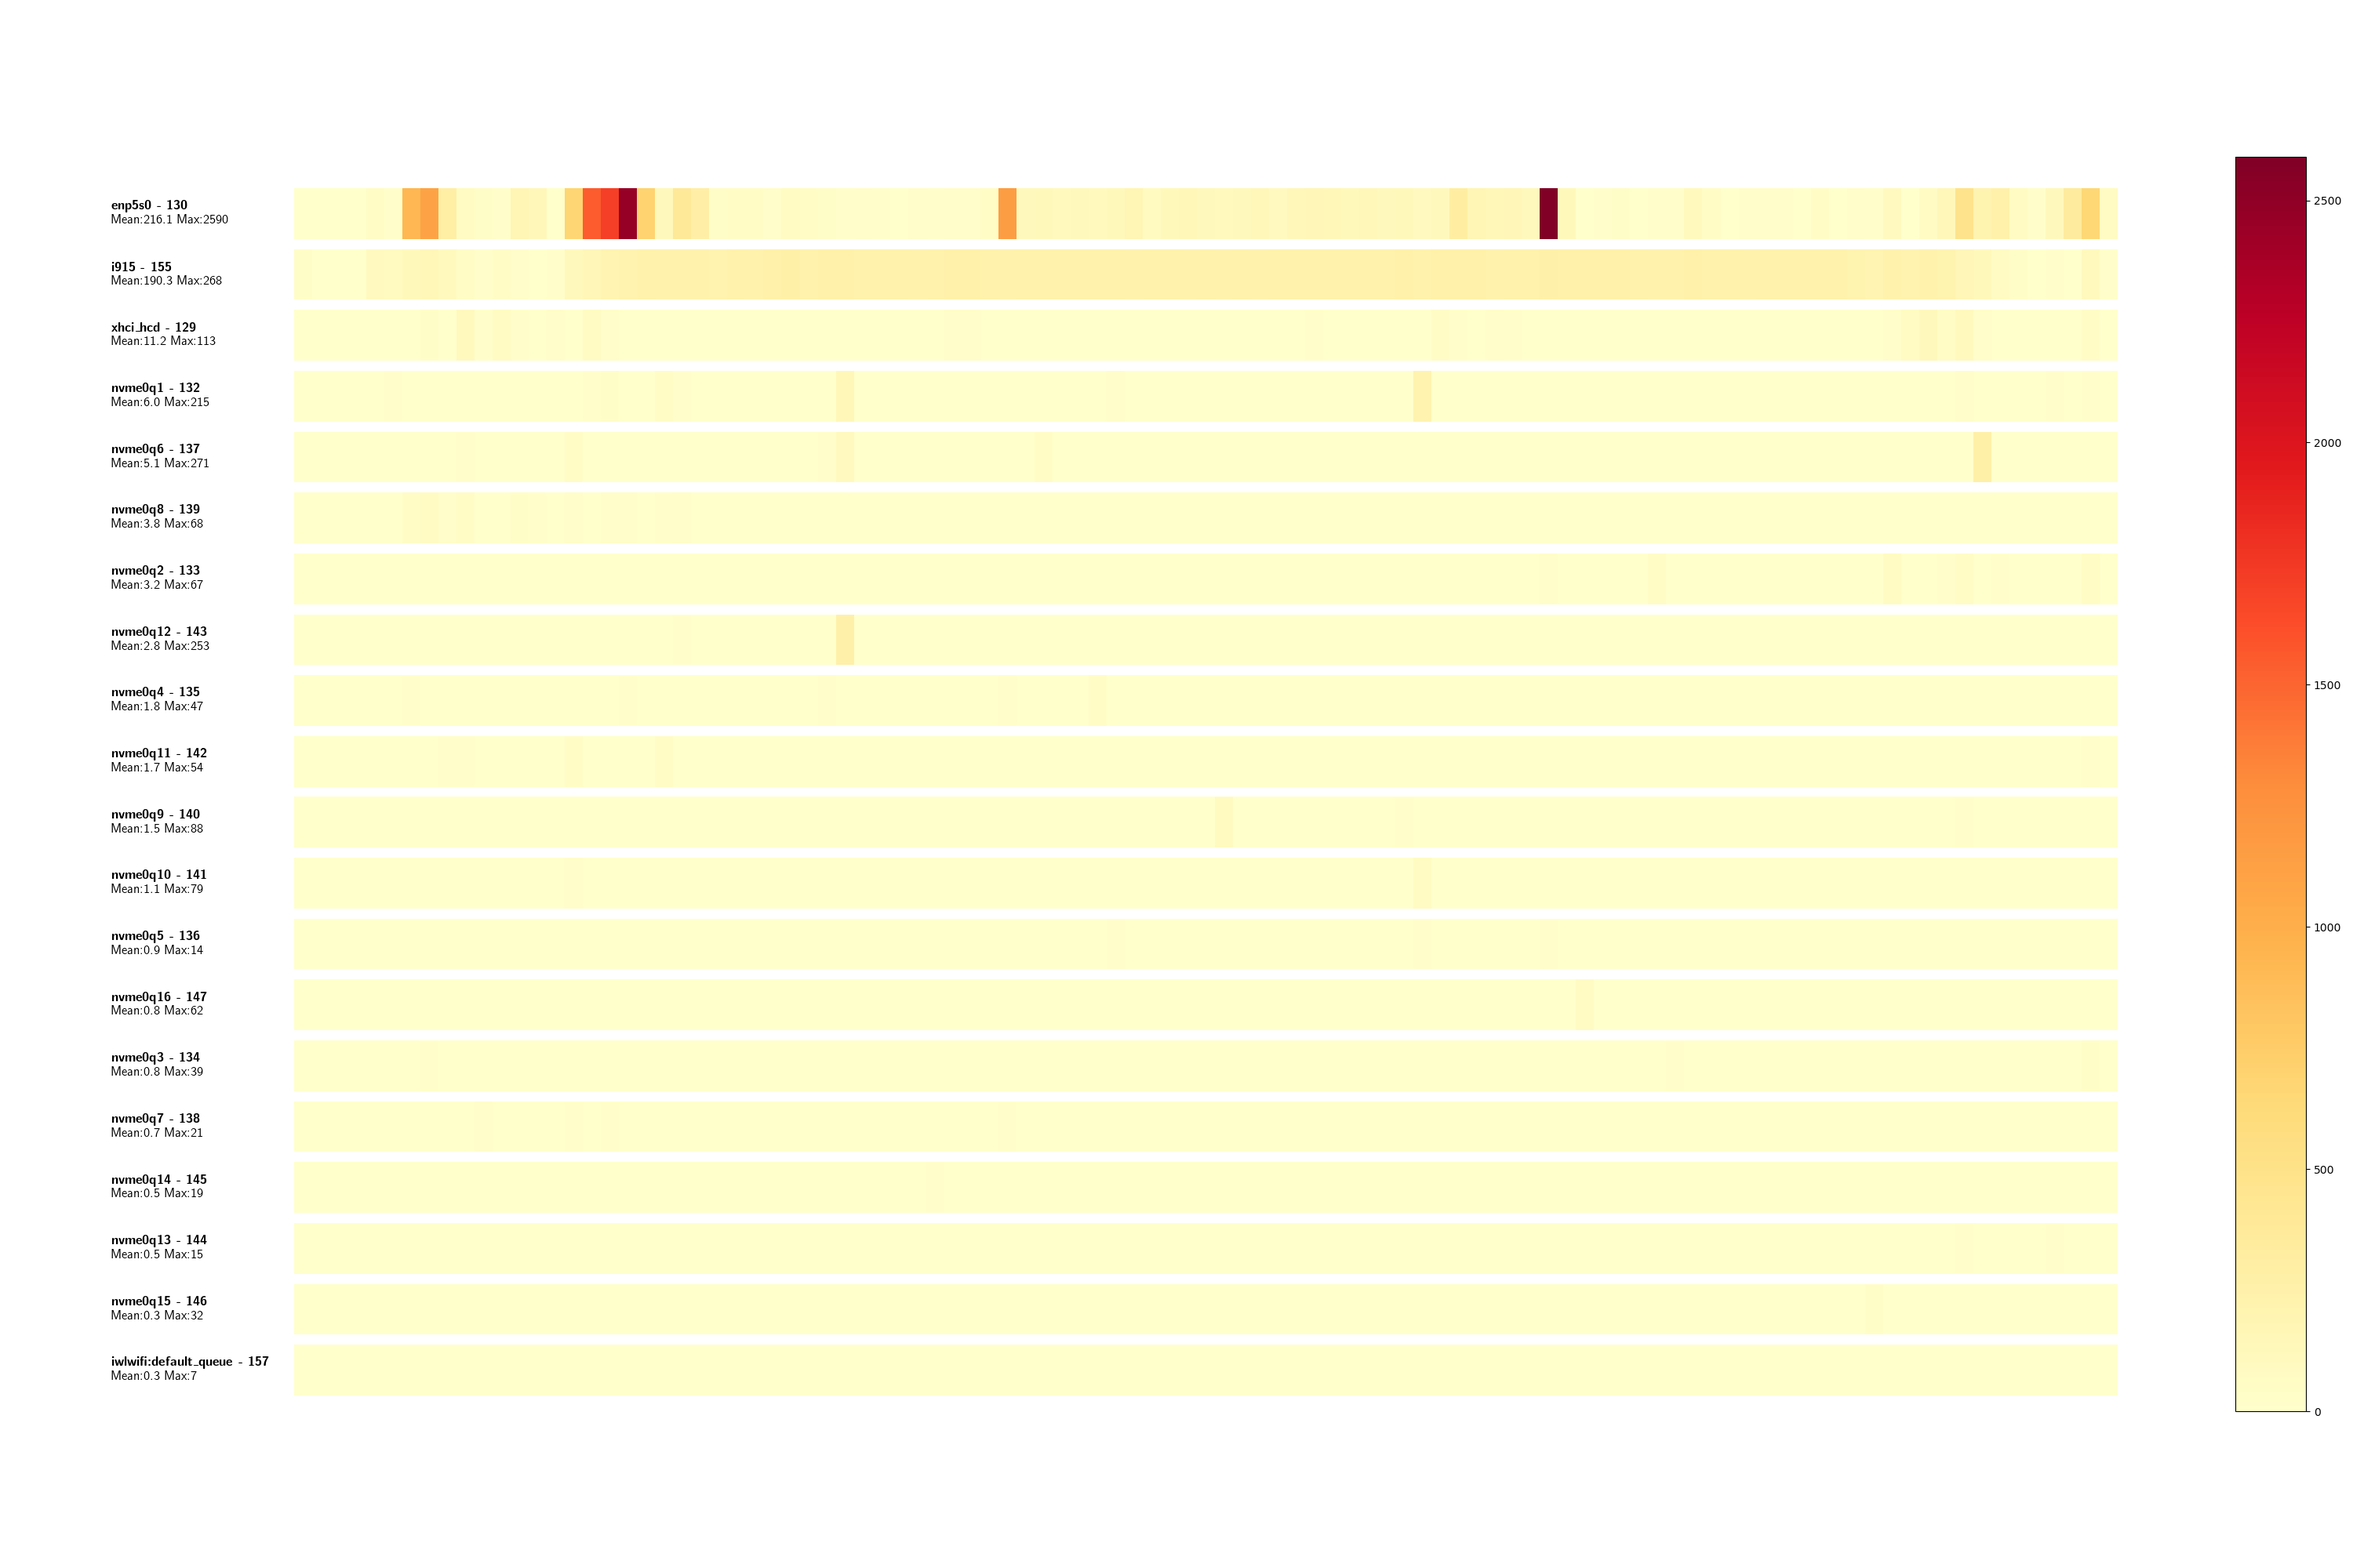
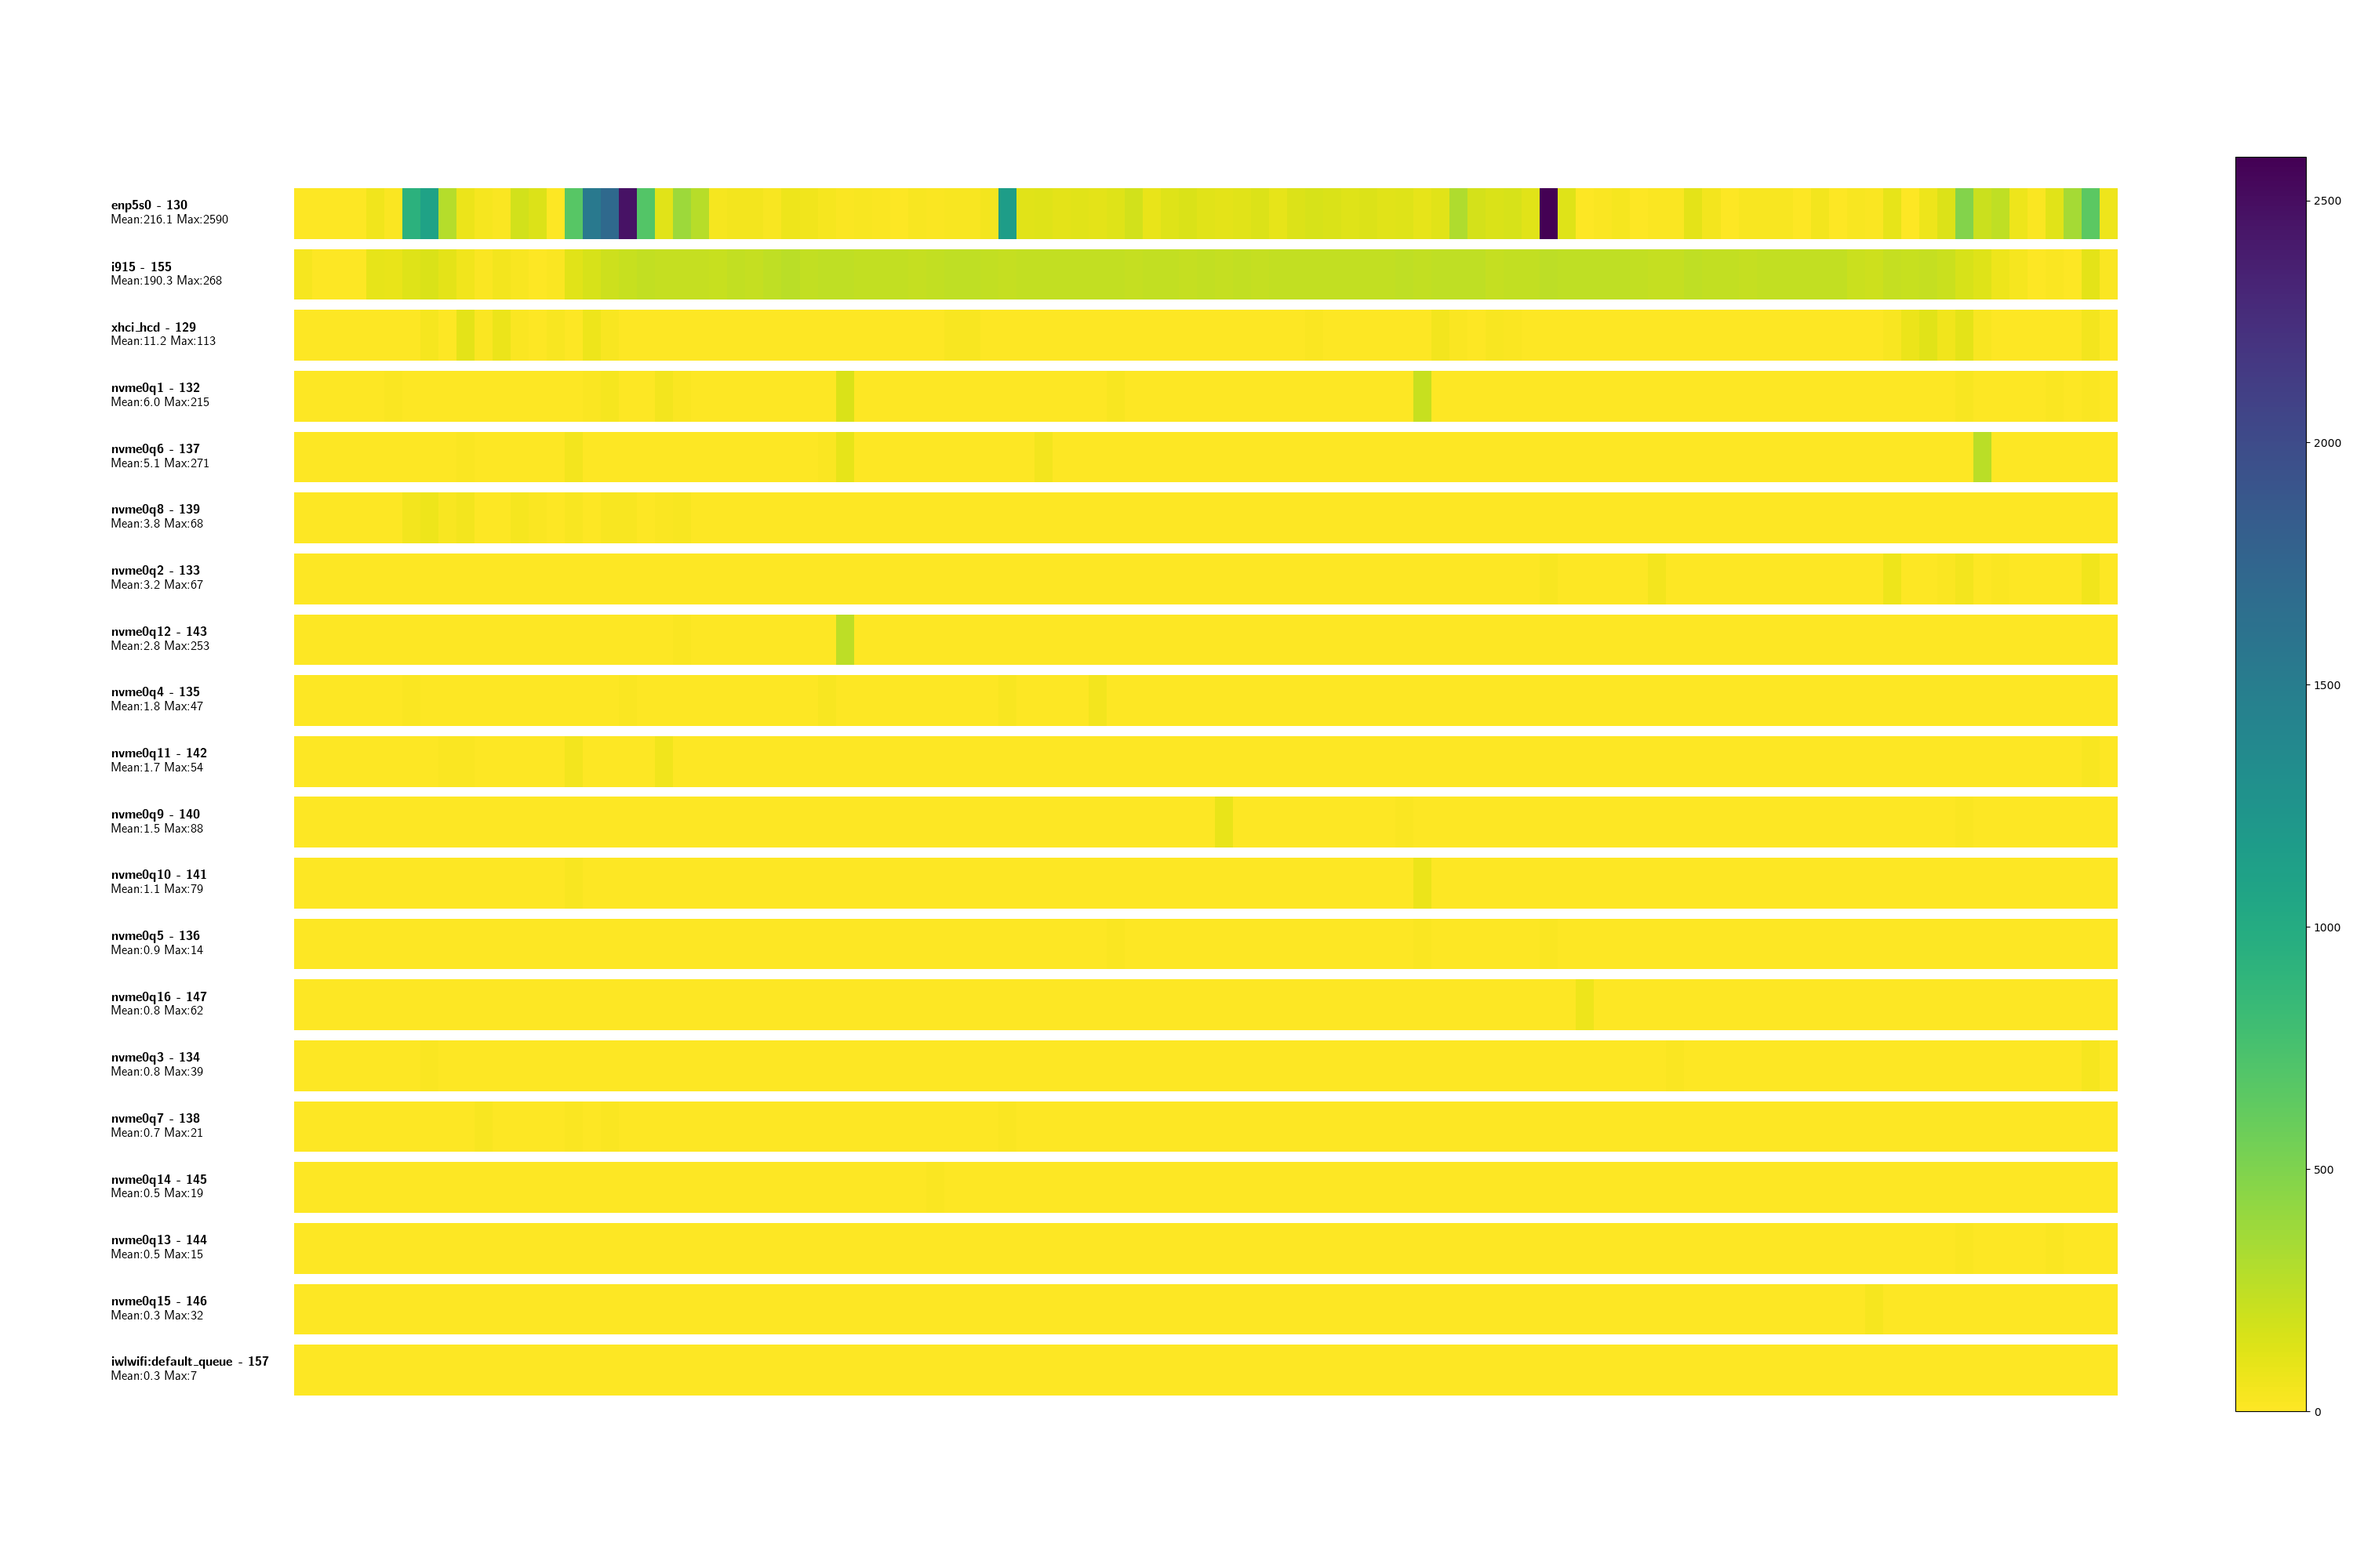
wakeups: IRQ differenz color palette

diff --git a/images/wakeups-timesequence-01/wakeups-timemap-irq.py b/images/wakeups-timesequence-01/wakeups-timemap-irq.py
@@ -21,7 +21,7 @@ for i, data in enumerate(data.iterrows()):
     row_mean = row.iloc[DATA_COLUMN:].mean()
     row_max = row.iloc[DATA_COLUMN:].max()
     reshaped_array = np.array(row.iloc[DATA_COLUMN:].tolist()).reshape((1, -1))
-    im = axs[i].imshow(reshaped_array, cmap=plt.cm.YlOrRd, extent=[0, 10, 0, 10],
+    im = axs[i].imshow(reshaped_array, cmap=plt.cm.viridis_r, extent=[0, 10, 0, 10],
                        aspect='auto', interpolation='none', vmin=0, vmax=max_value)
     # I use TeX here for boldface font generatiom, remove textbf and usetex=False
     # to get rid of it

diff --git a/images/wakeups-timesequence-01/wakeups-timemap-irq-cpu.py b/images/wakeups-timesequence-01/wakeups-timemap-irq-cpu.py
@@ -16,7 +16,7 @@ for i, data in enumerate(data.iterrows()):
     row_max_value = row.iloc[1:].max()
     row_mean_value = row.iloc[1:].mean()
     reshaped_array = np.array(row.iloc[1:]).reshape((1, -1))
-    im = axs[i].imshow(reshaped_array, cmap=plt.cm.YlOrRd, extent=[0, 10, 0, 10],
+    im = axs[i].imshow(reshaped_array, cmap=plt.cm.viridis_r, extent=[0, 10, 0, 10],
                        aspect='auto', interpolation='none', vmin=0, vmax=max_value)
     # I use TeX here for boldface font generatiom, remove textbf and usetex=False
     # to get rid of it
